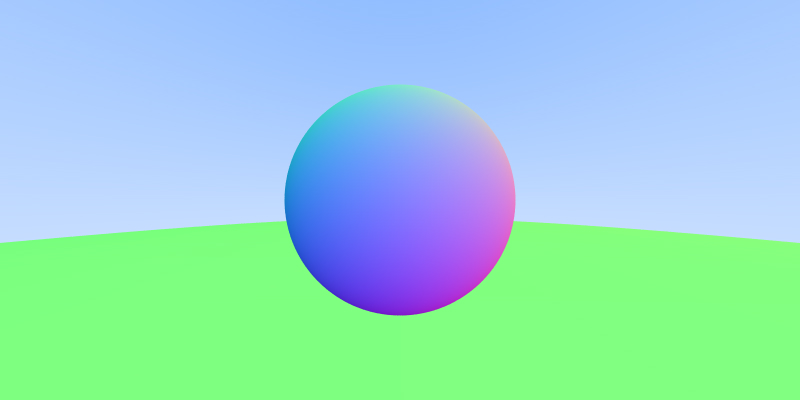
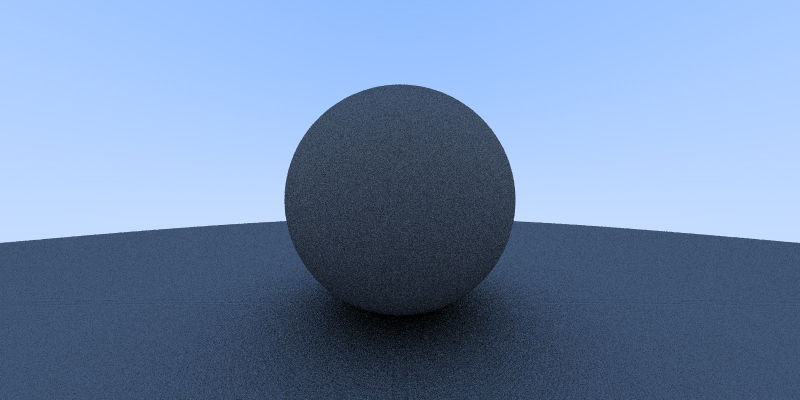
Simulating a Lambertian material

diff --git a/main.cpp b/main.cpp
@@ -13,10 +13,19 @@
 
 using namespace std;
 
+vec3 random_in_unit_sphere() {
+    vec3 p;
+    do {
+        p = 2.0*vec3(drand48(), drand48(), drand48()) - vec3(1, 1, 1);
+    } while (p.squared_length() >= 1.0);
+    return p;
+}
+
 vec3 color(const ray& r, hitable *world) {
     hit_record rec;
     if (world->hit(r, 0.0, MAXFLOAT, rec)) {
-        return 0.5*vec3(rec.normal.x()+1, rec.normal.y()+1, rec.normal.z()+1);
+        vec3 target = rec.p + rec.normal + random_in_unit_sphere();
+        return 0.5*color(ray(rec.p, target-rec.p), world);
     }
     vec3 unit_direction = unit_vector(r.direction());
     float w = 0.5*(unit_direction.y() + 1.0);
